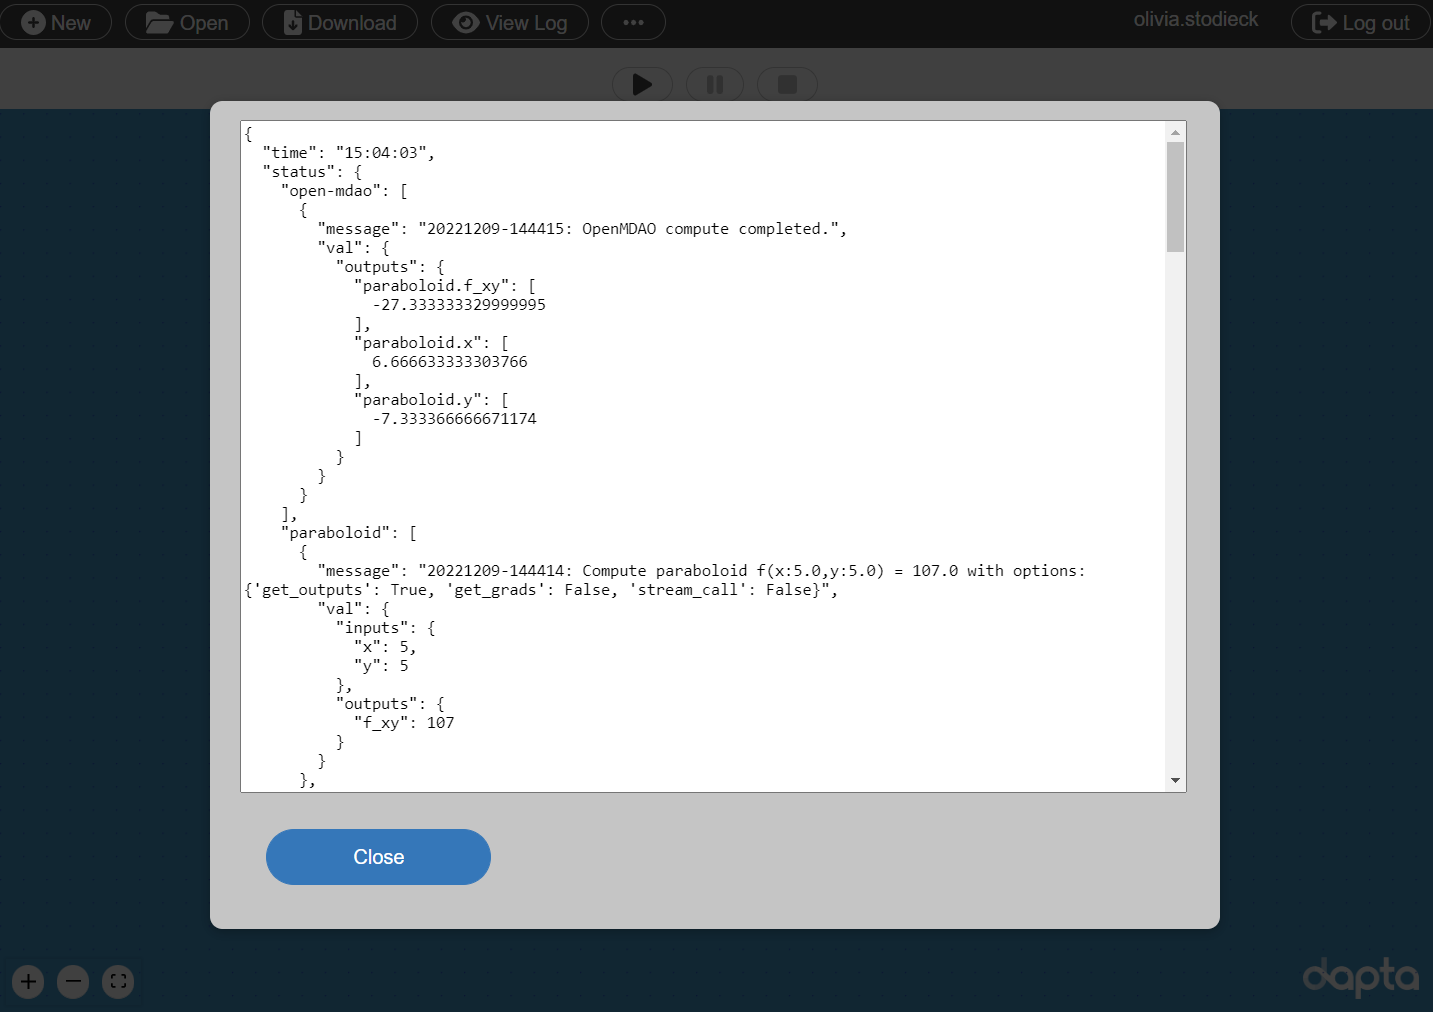
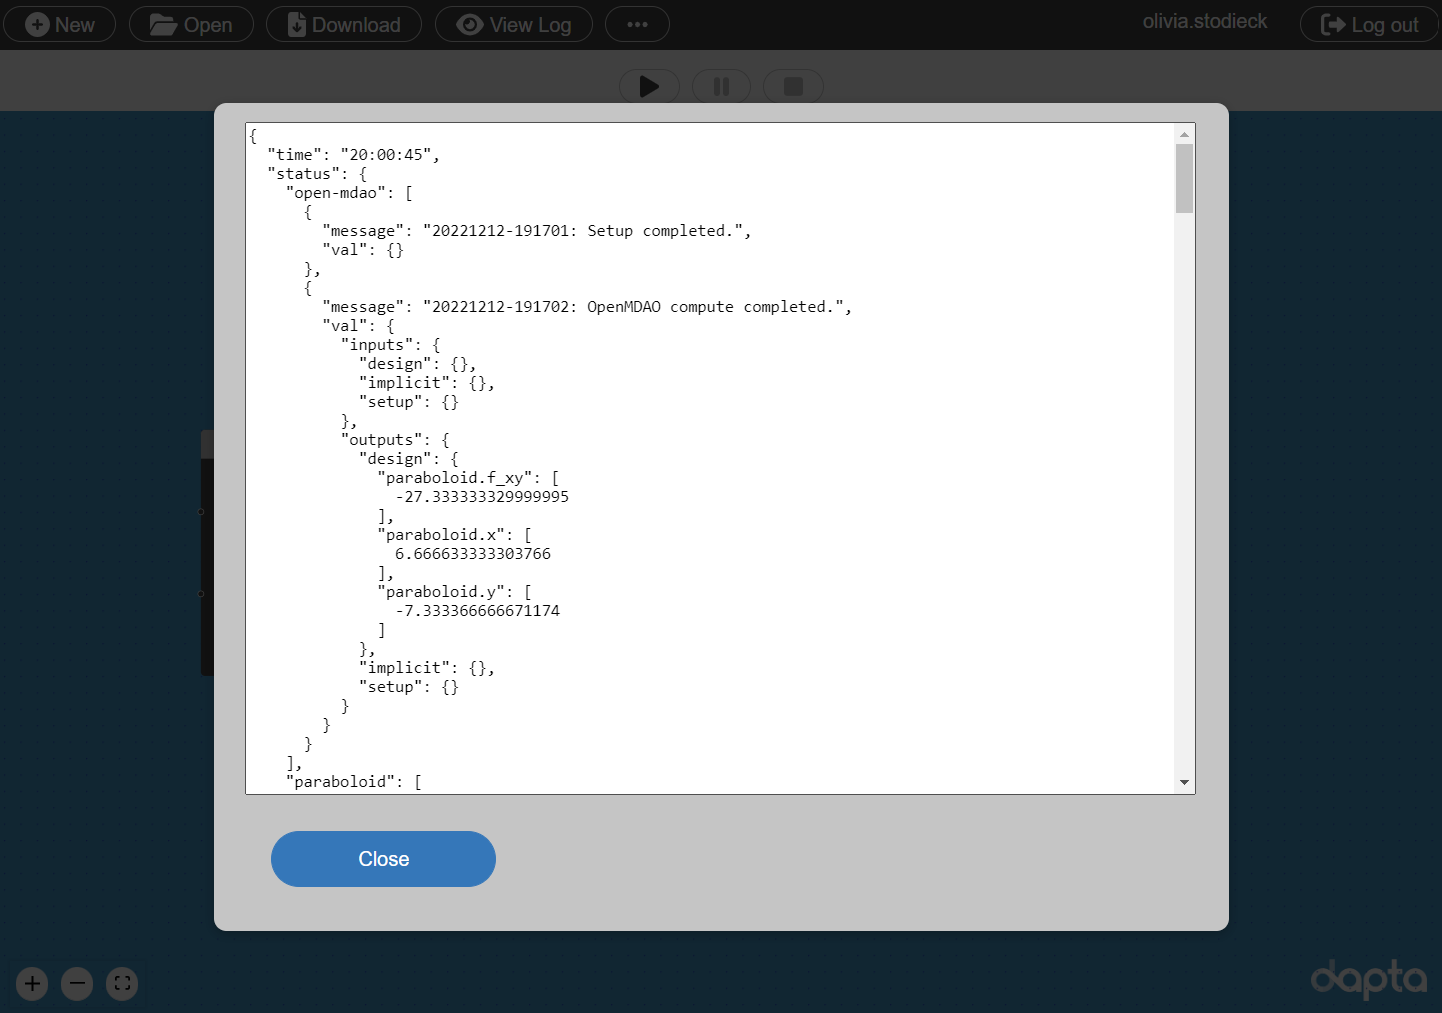
update tutorials 1 and 2 with new figures and clarified Parameters / Inputs

diff --git a/mynewbook/Tutorials/open-mdao-paraboloid/compute.py b/mynewbook/Tutorials/open-mdao-paraboloid/compute.py
@@ -10,30 +10,28 @@ from om_component import OMexplicitComp  # type: ignore
 
 
 def compute(
-    setup_data: dict = None,
-    params: dict = None,
     inputs: dict = None,
     outputs: dict = None,
     partials: dict = None,
     options: dict = None,
-    run_folder: Path = None,
-    inputs_folder: Path = None,
+    parameters: dict = None,
 ):
 
     """Editable compute function."""
 
     print("OpenMDAO problem setup started.")
 
-    workflow = setup_data["workflow"]
-    all_connections = setup_data["all_connections"]
+    workflow = parameters["workflow"]
+    all_connections = parameters["all_connections"]
+    run_folder = Path(parameters["outputs_folder_path"])
 
     # 1) define the simulation components
     prob = om.Problem()
     for component in workflow:
-        if "ExplicitComponents" in setup_data:
+        if "ExplicitComponents" in parameters:
             kwargs = [
                 comp["kwargs"]
-                for comp in setup_data["ExplicitComponents"]
+                for comp in parameters["ExplicitComponents"]
                 if comp["name"] == component
             ][0]
         else:
@@ -41,8 +39,8 @@ def compute(
         prob.model.add_subsystem(
             component, OMexplicitComp(name=component, run_number=0), **kwargs
         )
-    if "ExecComps" in setup_data and setup_data["ExecComps"]:
-        for component in setup_data["ExecComps"]:
+    if "ExecComps" in parameters and parameters["ExecComps"]:
+        for component in parameters["ExecComps"]:
             prob.model.add_subsystem(
                 component["name"],
                 om.ExecComp(component["exprs"]),
@@ -64,29 +62,29 @@ def compute(
                 + connection["name_target"].replace(".", "-"),
             )
 
-    if setup_data["driver"]["type"] == "optimisation":
+    if parameters["driver"]["type"] == "optimisation":
         # 3) setup the optimisation driver options
         prob.driver = om.ScipyOptimizeDriver()
-        prob.driver.options["optimizer"] = setup_data["optimizer"]
-        prob.driver.options["maxiter"] = setup_data["max_iter"]
-        prob.driver.options["tol"] = setup_data["tol"]
-        prob.driver.opt_settings["disp"] = setup_data["disp"]
-        prob.driver.options["debug_print"] = setup_data["debug_print"]
+        prob.driver.options["optimizer"] = parameters["optimizer"]
+        prob.driver.options["maxiter"] = parameters["max_iter"]
+        prob.driver.options["tol"] = parameters["tol"]
+        prob.driver.opt_settings["disp"] = parameters["disp"]
+        prob.driver.options["debug_print"] = parameters["debug_print"]
 
-        if "approx_totals" in setup_data and setup_data["approx_totals"]:
+        if "approx_totals" in parameters and parameters["approx_totals"]:
             # ensure FD gradients are used
             prob.model.approx_totals(
-                method="fd", step=setup_data["fd_step"], form=None, step_calc=None
+                method="fd", step=parameters["fd_step"], form=None, step_calc=None
             )
 
-    elif setup_data["driver"]["type"] == "doe":
+    elif parameters["driver"]["type"] == "doe":
         # 3) alternative: setup a design of experiments
         prob.driver = om.DOEDriver(
-            om.UniformGenerator(num_samples=setup_data["driver"]["samples"])
+            om.UniformGenerator(num_samples=parameters["driver"]["samples"])
         )
 
     # 4) add design variables
-    for var in setup_data["input_variables"]:
+    for var in parameters["input_variables"]:
         upper = var["upper"]
         lower = var["lower"]
         if "component" in var:
@@ -103,7 +101,7 @@ def compute(
             prob.model.set_input_defaults(var["name"].replace(".", "-"), var["value"])
 
     # 5) add an objective and constraints
-    for var in setup_data["output_variables"]:
+    for var in parameters["output_variables"]:
         comp = var["component"]
         name = f"{comp}.{var['name'].replace('.', '-')}"
 
@@ -135,7 +133,7 @@ def compute(
     prob.setup()  # required to generate the n2 diagram
     print("OpenMDAO problem setup completed.")
 
-    if "visualise" in setup_data and "n2_diagram" in setup_data["visualise"]:
+    if "visualise" in parameters and "n2_diagram" in parameters["visualise"]:
         # save n2 diagram in html format
         om.n2(
             prob,
@@ -143,23 +141,37 @@ def compute(
             show_browser=False,
         )
 
-    # 6) run the optimisation
-    if setup_data["driver"]["type"] == "optimisation":
-        dict_out = run_optimisation(prob, setup_data, run_folder)
+    if parameters["driver"]["type"] == "optimisation":
+        dict_out = run_optimisation(prob, parameters, run_folder)
+
+    # elif parameters["driver"]["type"] == "check_partials":
+    #     dict_out = run_check_partials(prob, parameters)
+
+    # elif parameters["driver"]["type"] == "check_totals":
+    #     dict_out = run_check_totals(prob, parameters)
+
+    # elif parameters["driver"]["type"] == "doe":
+    #     dict_out = run_doe(prob, parameters)
+
+    # elif parameters["driver"]["type"] == "post":
+    #     dict_out = run_post(prob, parameters)
+
     else:
         raise ValueError(
-            f"driver {setup_data['driver']['type']} is not a valid component driver type."
+            f"driver {parameters['driver']['type']} is not a valid component driver type."
         )
 
     message = f"{datetime.now().strftime('%Y%m%d-%H%M%S')}: OpenMDAO compute completed."
     print(message)
 
-    return {"message": message, "outputs": dict_out["outputs"]}
+    outputs["design"] = dict_out
+
+    return {"message": message, "outputs": outputs}
 
 
-def run_optimisation(prob, setup_data, run_folder):
+def run_optimisation(prob, parameters, run_folder):
 
-    # add a data recorder to the optimisation problem
+    # 6) add a data recorder to the optimisation problem
     r_name = str(
         run_folder
         / (
@@ -175,7 +187,18 @@ def run_optimisation(prob, setup_data, run_folder):
     # setup the problem again
     prob.setup()
 
-    # execute the optimisation and capture the print output in a log file
+    if "visualise" in parameters and "scaling_report" in parameters["visualise"]:
+        with open(run_folder / "scaling_report.log", "w") as f:
+            with redirect_stdout(f):
+                prob.run_model()
+                prob.driver.scaling_report(
+                    outfile=str(run_folder / "driver_scaling_report.html"),
+                    title=None,
+                    show_browser=False,
+                    jac=True,
+                )
+
+    # 7) execute the optimisation
     try:
         with open(run_folder / "run_driver.log", "w") as f:
             with redirect_stdout(f):
@@ -187,7 +210,7 @@ def run_optimisation(prob, setup_data, run_folder):
 
     opt_output = {}
     # print("Completed model optimisation - solution is: \n inputs= (")
-    for var in setup_data["input_variables"]:
+    for var in parameters["input_variables"]:
         name = var["name"]
         # print(
         #     f"{comp}.{name}: "
@@ -202,7 +225,7 @@ def run_optimisation(prob, setup_data, run_folder):
         else:
             opt_output[name] = prob.get_val(name.replace(".", "-")).tolist()
     # print("), \n outputs = (")
-    for var in setup_data["output_variables"]:
+    for var in parameters["output_variables"]:
         comp = var["component"]
         name = var["name"]
         # print(
@@ -217,4 +240,4 @@ def run_optimisation(prob, setup_data, run_folder):
 
     print(opt_output)
 
-    return {"outputs": opt_output}
+    return opt_output

diff --git a/mynewbook/Tutorials/paraboloid/setup.py b/mynewbook/Tutorials/paraboloid/setup.py
@@ -6,9 +6,7 @@ def setup(
     inputs: dict = None,
     outputs: dict = None,
     partials: dict = None,
-    params: dict = None,
-    run_folder: Path = None,
-    inputs_folder: Path = None,
+    parameters: dict = None,
 ):
     """Editable setup function."""
 
@@ -17,20 +15,20 @@ def setup(
 
     # set default inputs
     if inputs:
-        for input_key, input_value in inputs.items():
+        for input_key, input_value in inputs["design"].items():
             if input_value == "default":
                 try:
-                    inputs[input_key] = float(params[input_key])
+                    inputs["design"][input_key] = float(parameters[input_key])
                 except Exception as e:
                     print(f"Could not find {input_key} in the input parameters.")
         response["inputs"] = inputs
 
     # initialise outputs - required for OpenMDAO
     if outputs:
-        for output_key, output_value in outputs.items():
+        for output_key, output_value in outputs["design"].items():
             if output_value == "default":
                 try:
-                    outputs[output_key] = float(params[output_key])
+                    outputs["design"][output_key] = float(parameters[output_key])
                 except Exception as e:
                     print(f"Could not find {output_key} in the input parameters.")
         response["outputs"] = outputs

diff --git a/mynewbook/Tutorials/open-mdao-paraboloid/om_component.py b/mynewbook/Tutorials/open-mdao-paraboloid/om_component.py
@@ -22,8 +22,8 @@ class OMexplicitComp(om.ExplicitComponent):
 
         message = {"component": self.name}
         _, component_dict = call_setup(message)
-        inputs = component_dict["input_data"]
-        outputs = component_dict["output_data"]
+        inputs = component_dict["input_data"]["design"]
+        outputs = component_dict["output_data"]["design"]
 
         # initialise the inputs
         if inputs:
@@ -57,7 +57,7 @@ class OMexplicitComp(om.ExplicitComponent):
         print("Calling compute.")
         # calculate the outputs
         # Note: transform all np.ndarrays into nested lists to allow formatting to json
-        input_dict = reformat_inputs(inputs._copy_views())
+        input_dict = {"design": reformat_inputs(inputs._copy_views())}
 
         message = {
             "component": self.name,
@@ -77,7 +77,7 @@ class OMexplicitComp(om.ExplicitComponent):
             print(tb)
             raise ValueError(f"OM Explicit component {self.name} compute error: " + tb)
 
-        val_outputs = data["outputs"]
+        val_outputs = data["outputs"]["design"]
 
         # OpenMDAO doesn't like the outputs dictionary to be overwritten, so
         # assign individual outputs one at a time instead

diff --git a/mynewbook/Tutorials/paraboloid/compute.py b/mynewbook/Tutorials/paraboloid/compute.py
@@ -3,14 +3,11 @@ from pathlib import Path
 
 
 def compute(
-    setup_data: dict = None,
-    params: dict = None,
     inputs: dict = None,
     outputs: dict = None,
     partials: dict = None,
     options: dict = None,
-    run_folder: Path = None,
-    inputs_folder: Path = None,
+    parameters: dict = None,
 ):
 
     """
@@ -18,9 +15,9 @@ def compute(
     Minimum at: x = 6.6667; y = -7.3333
     """
 
-    x = inputs["x"]
-    y = inputs["y"]
-    outputs["f_xy"] = (x - 3.0) ** 2 + x * y + (y + 4.0) ** 2 - 3.0
+    x = inputs["design"]["x"]
+    y = inputs["design"]["y"]
+    outputs["design"]["f_xy"] = (x - 3.0) ** 2 + x * y + (y + 4.0) ** 2 - 3.0
 
     resp = {}
     resp["outputs"] = outputs
@@ -30,7 +27,7 @@ def compute(
         partials["f_xy"]["y"]["val"] = [x + 2 * (y + 4.0)]
         resp["partials"] = partials
 
-    message = f"{datetime.now().strftime('%Y%m%d-%H%M%S')}: Compute paraboloid f(x:{str(x)},y:{str(y)}) = {str(outputs['f_xy'])} with options: {str(options)}"
+    message = f"{datetime.now().strftime('%Y%m%d-%H%M%S')}: Compute paraboloid f(x:{str(x)},y:{str(y)}) = {str(outputs['design']['f_xy'])} with options: {str(options)}"
     resp["message"] = message
 
     return resp

diff --git a/mynewbook/Tutorials/open-mdao-paraboloid/setup.py b/mynewbook/Tutorials/open-mdao-paraboloid/setup.py
@@ -6,16 +6,16 @@ def setup(
     inputs: dict = None,
     outputs: dict = None,
     partials: dict = None,
-    params: dict = None,
-    run_folder: Path = None,
-    inputs_folder: Path = None,
+    parameters: dict = None,
 ):
     """Editable setup function."""
 
-    if "driver" not in params:
+    if "driver" not in parameters:
         # assume we want to run an optimisation with default settings
-        params["driver"] = {"type": "optimisation"}
+        driver = {"type": "optimisation"}
+    else:
+        driver = parameters["driver"]
 
     message = f"{datetime.now().strftime('%Y%m%d-%H%M%S')}: Setup completed."
 
-    return {"message": message, **params}
+    return {"message": message, "driver": driver}

diff --git a/mynewbook/Tutorials/Simple component analysis.md b/mynewbook/Tutorials/Simple component analysis.md
@@ -60,7 +60,7 @@ We can see that the `generic-python3-comp` API has three input files:
 The first two files are required and the last one is optional. You can inspect the paraboloid example file contents below. 
 The `requirements.txt` file is not required here as the python code doesn't import any third-party python packages. We will use it in the [Simple optimisation problem](./Simple%20optimisation%20problem.md) to import openMDAO classes and functions.  
 
-The `setup.py` module has to include a **setup** function that returns data that will be available to the compute function. Here we initialise x and y inputs with values from the params ([](tutorials-paraboloid-parameters)) input dictionary. We also initialise the outputs and partials (function gradients), which will only be needed for the next example. 
+The `setup.py` module has to include a **setup** function that returns data that will be available to the compute function. Here we initialise x and y inputs with values from the [Parameters](tutorials-paraboloid-parameters) input dictionary. We also initialise the outputs and partials (function gradients), which will only be needed for the next example. 
 
 The `compute.py` module has to include a **compute** function that returns a dictionary of data, which usually includes the component outputs dictionary. The compute function in this example calculates f(x,y) from the x and y values stored in the inputs dictionary. Again the partials calculation is only needed for the next example.      
 
@@ -93,10 +93,12 @@ Check the boxes next to the `Start Node` and `End Node` options (since we only h
 
 Finally, select `Save data` to save the component and close the component interface. 
 
-In your work space, the component name should have updated and a green tick should appear next to it to indicate that the component is apparently valid. However, if you tried to run it now, you would get error messages as we haven't actually defined the python function Parameter inputs and design Inputs yet - see below. 
+In your work space, the component name should have updated and a green tick should appear next to it to indicate that the component is apparently valid. 
+However, if you tried to run it now, you would get error messages as we haven't actually defined the python function Parameters and Inputs yet - see below. 
 
 ```{warning}
-Although you have just 'saved' the component, the contents of your workspace have not actually been saved anywhere and you would lose your work if you refreshed the webpage or closed the web browser now. To avoid this situation you should save your edited components regularly and then select the workspace `Download` button to save an a JSON formatted version of your session (see the related sections in the User Manual). 
+Although you have just 'saved' the component, the contents of your workspace have not actually been saved anywhere and you would lose your work if you refreshed the webpage or closed the web browser now. 
+To avoid this situation you should save your edited components regularly and then select the workspace `Download` button to save an a JSON formatted version of your session (see the related sections in the User Manual). 
 ```
 
 (tutorials-paraboloid-parameters)=
@@ -112,11 +114,14 @@ Select the component again to edit it, then select the `Parameters` tab and copy
 }
 ```
 
-We define Parameters as values that the component needs to execute, but that are not design Inputs as such. For example, Parameters could be constant values or application related input files. For this paraboloid example, we use the `Parameters` tab to define some default component input and output values, which are used to initialise the component in the setup function. For a more comprehensive use of Parameters see the example [Chaining component analyses](./Chaining%20component%20analyses.md). 
+We define Parameters as values that the component needs to execute, but that are not Inputs from other Components. 
+For example, Parameters could be constant values or application related input files. For this paraboloid example, we use the `Parameters` tab to define some default component input and output values, which are used to initialise the component in the setup function. For a more comprehensive use of Parameters see the example [Chaining component analyses](./Chaining%20component%20analyses.md). 
 
 ### Inputs and Outputs
 
 Open the component to edit it and add the following JSON objects into the text boxes in the `Inputs` and `Outputs` tabs.
+By defining the paraboloid function inputs and outputs as Component Inputs and Outputs respectively, we can expose these values to other Run components, such as drivers. 
+We will explore this in the next tutorial [Simple optimisation problem](./Simple%20optimisation%20problem.md).  
 
 Input Handles:
 ```{code}

diff --git a/mynewbook/Tutorials/Simple optimisation problem.md b/mynewbook/Tutorials/Simple optimisation problem.md
@@ -98,8 +98,9 @@ Copy the contents of the ['om_component' tab above](tutorials-open-mdao-parabolo
 Select the `upload user input files` link at the bottom of the `Parameters` tab to upload the file. 
 The upload was successful if a corresponding entry appears under the 'user_input_files' section of the JSON object in the `Parameters` text box. 
 
-By extracting parameters from the python code and defining them in the `Parameters` tab instead, we can change the optimisation setup on the fly without having to view or modify the python code. 
-This makes the components more general, robust and re-usable. 
+By extracting parameters from the python code and defining them in the `Parameters` tab instead, we can change the optimisation setup without having to view or modify the python code. 
+This makes it easier to track input changes and to compare Runs (e.g. via the session file). 
+The component also becomes more general, robust and re-usable. 
 We will demonstrate the benefits of this approach in the next section by replacing the 'unconstrained' parameters with the 'constrained' ones.  
 
 Select `Save data` to save the edits and close the component interface. 
